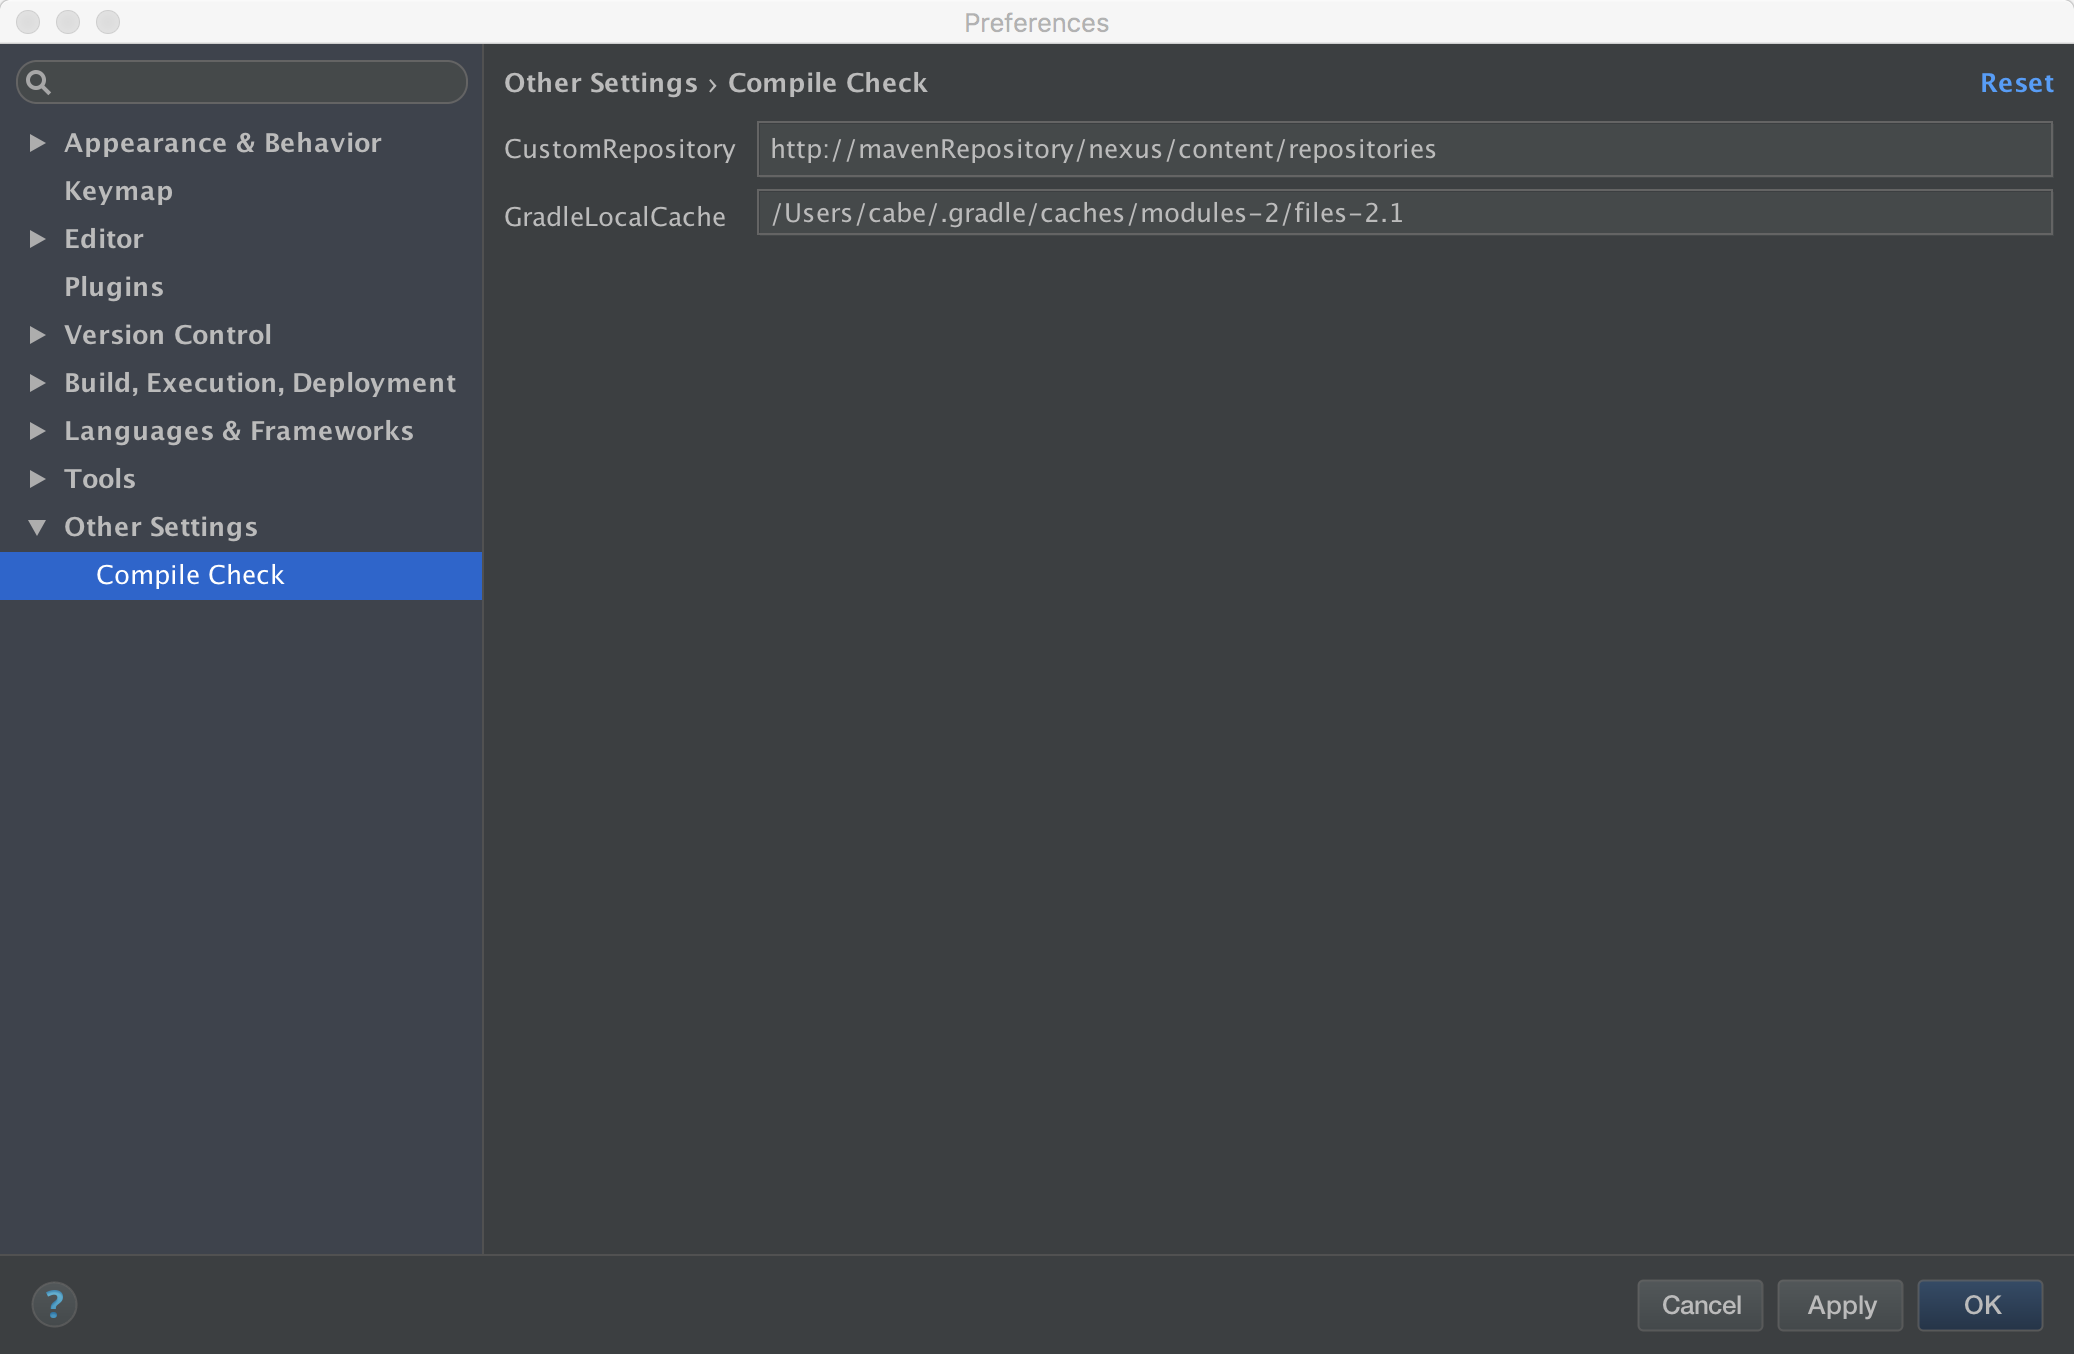
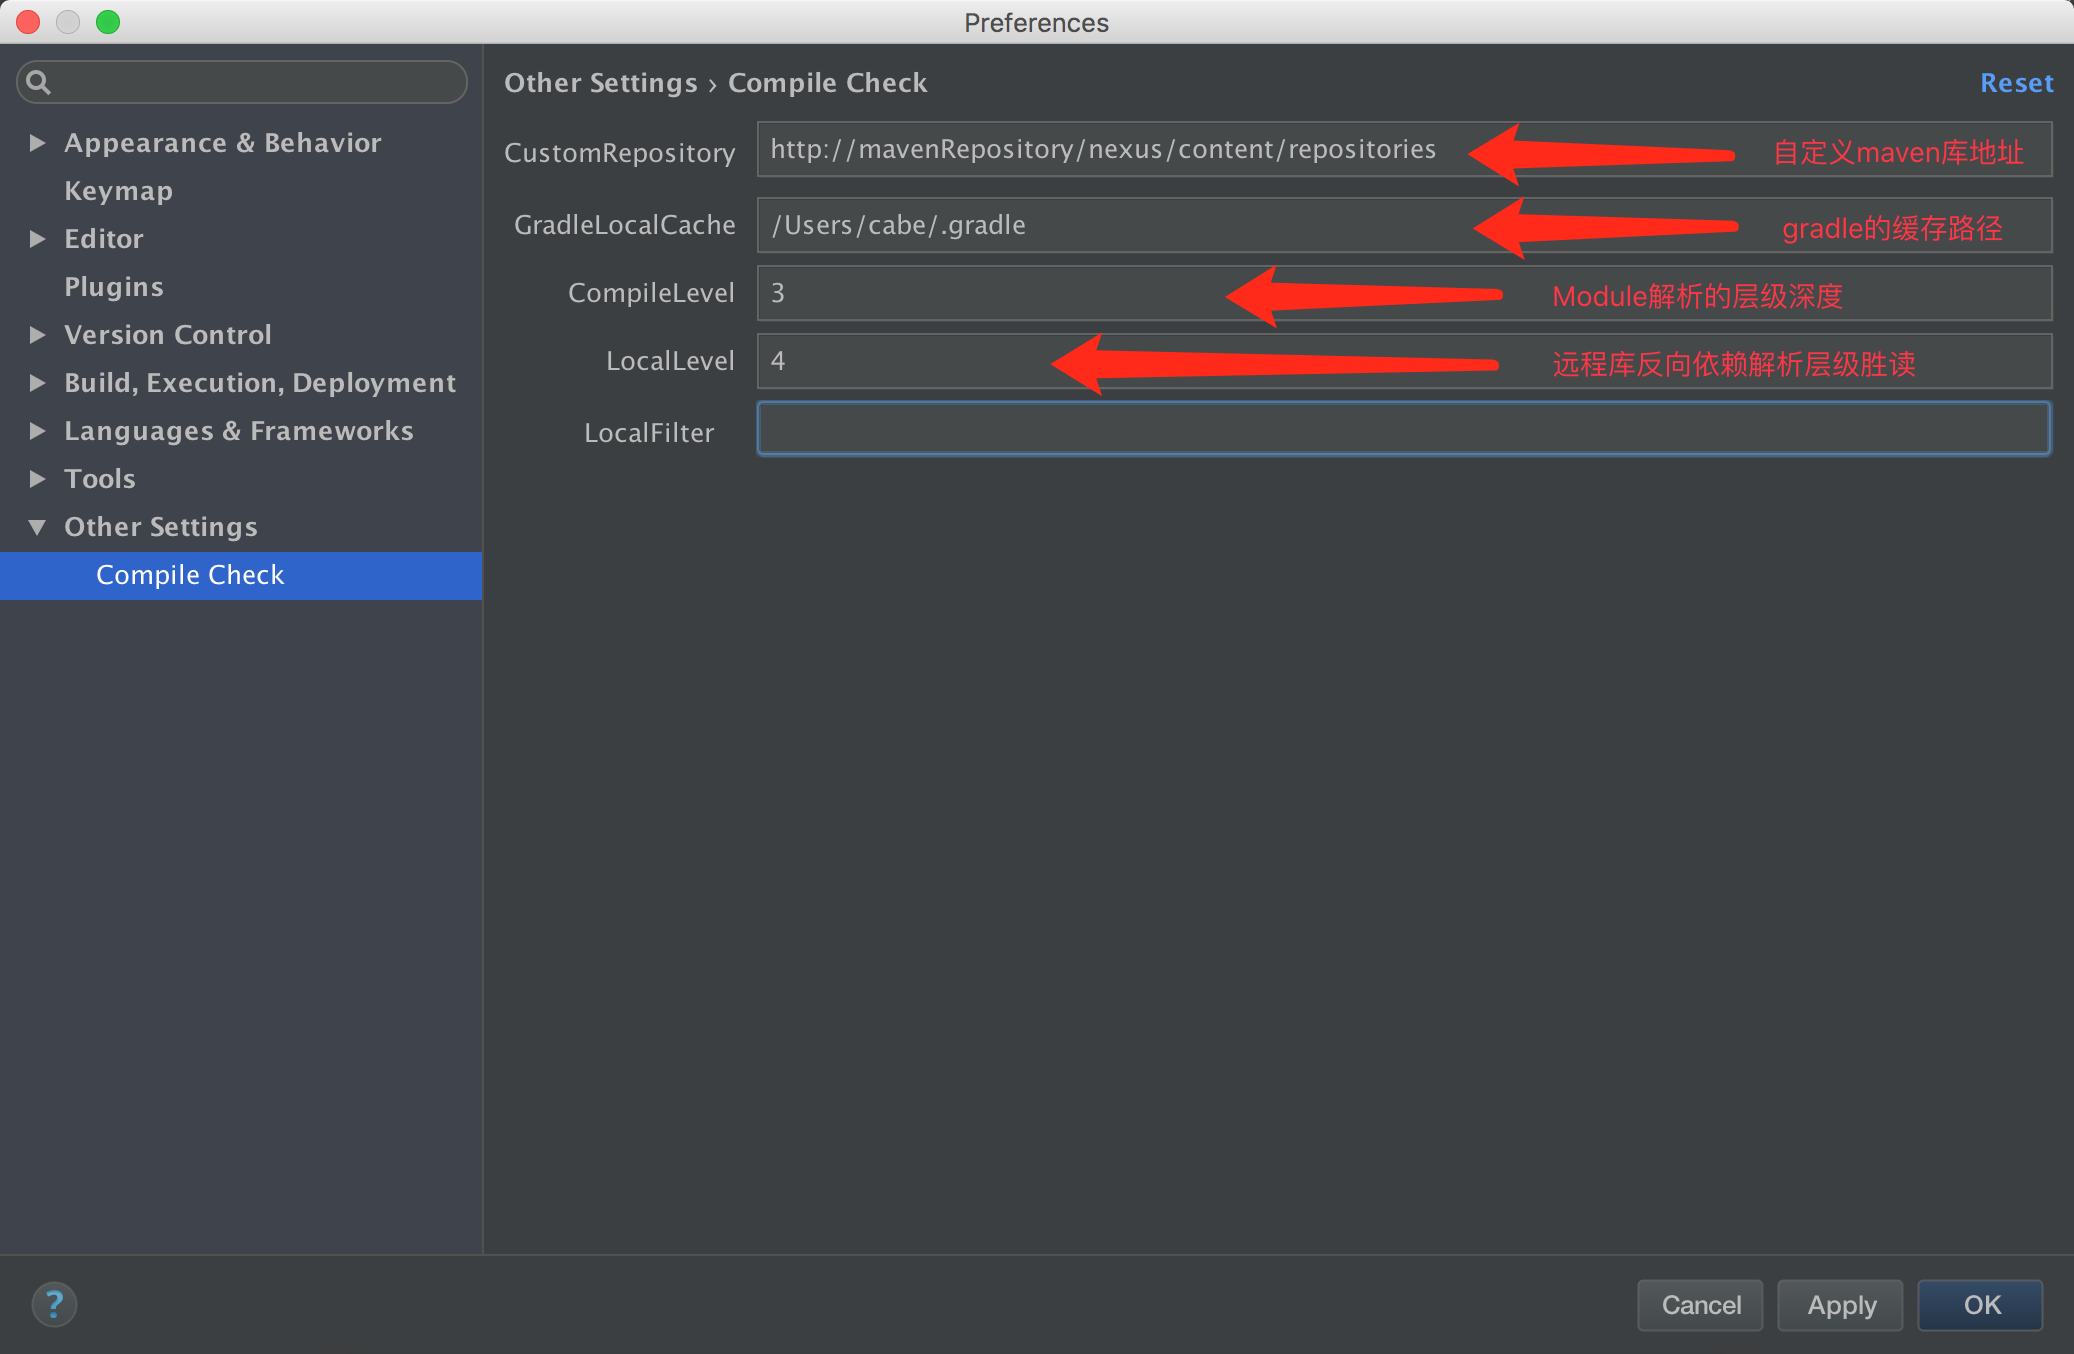
[MDF]更新文档

diff --git a/CHANGELOG.md b/CHANGELOG.md
@@ -13,4 +13,13 @@ V1.1  2017-01-04
 
 V1.2  2017-01-09
 -----------------------
-  1、新增当前Project里远程库的反向依赖关系
+  1、新增当前Module里远程库的反向依赖关系
+
+V1.3  2017-01-10
+-----------------------
+  1、新增当前工程下依赖库与Module的关系解析功能
+
+V1.4  2017-01-11
+-----------------------
+  1、优化解析性能
+  2、新增多个配置项
